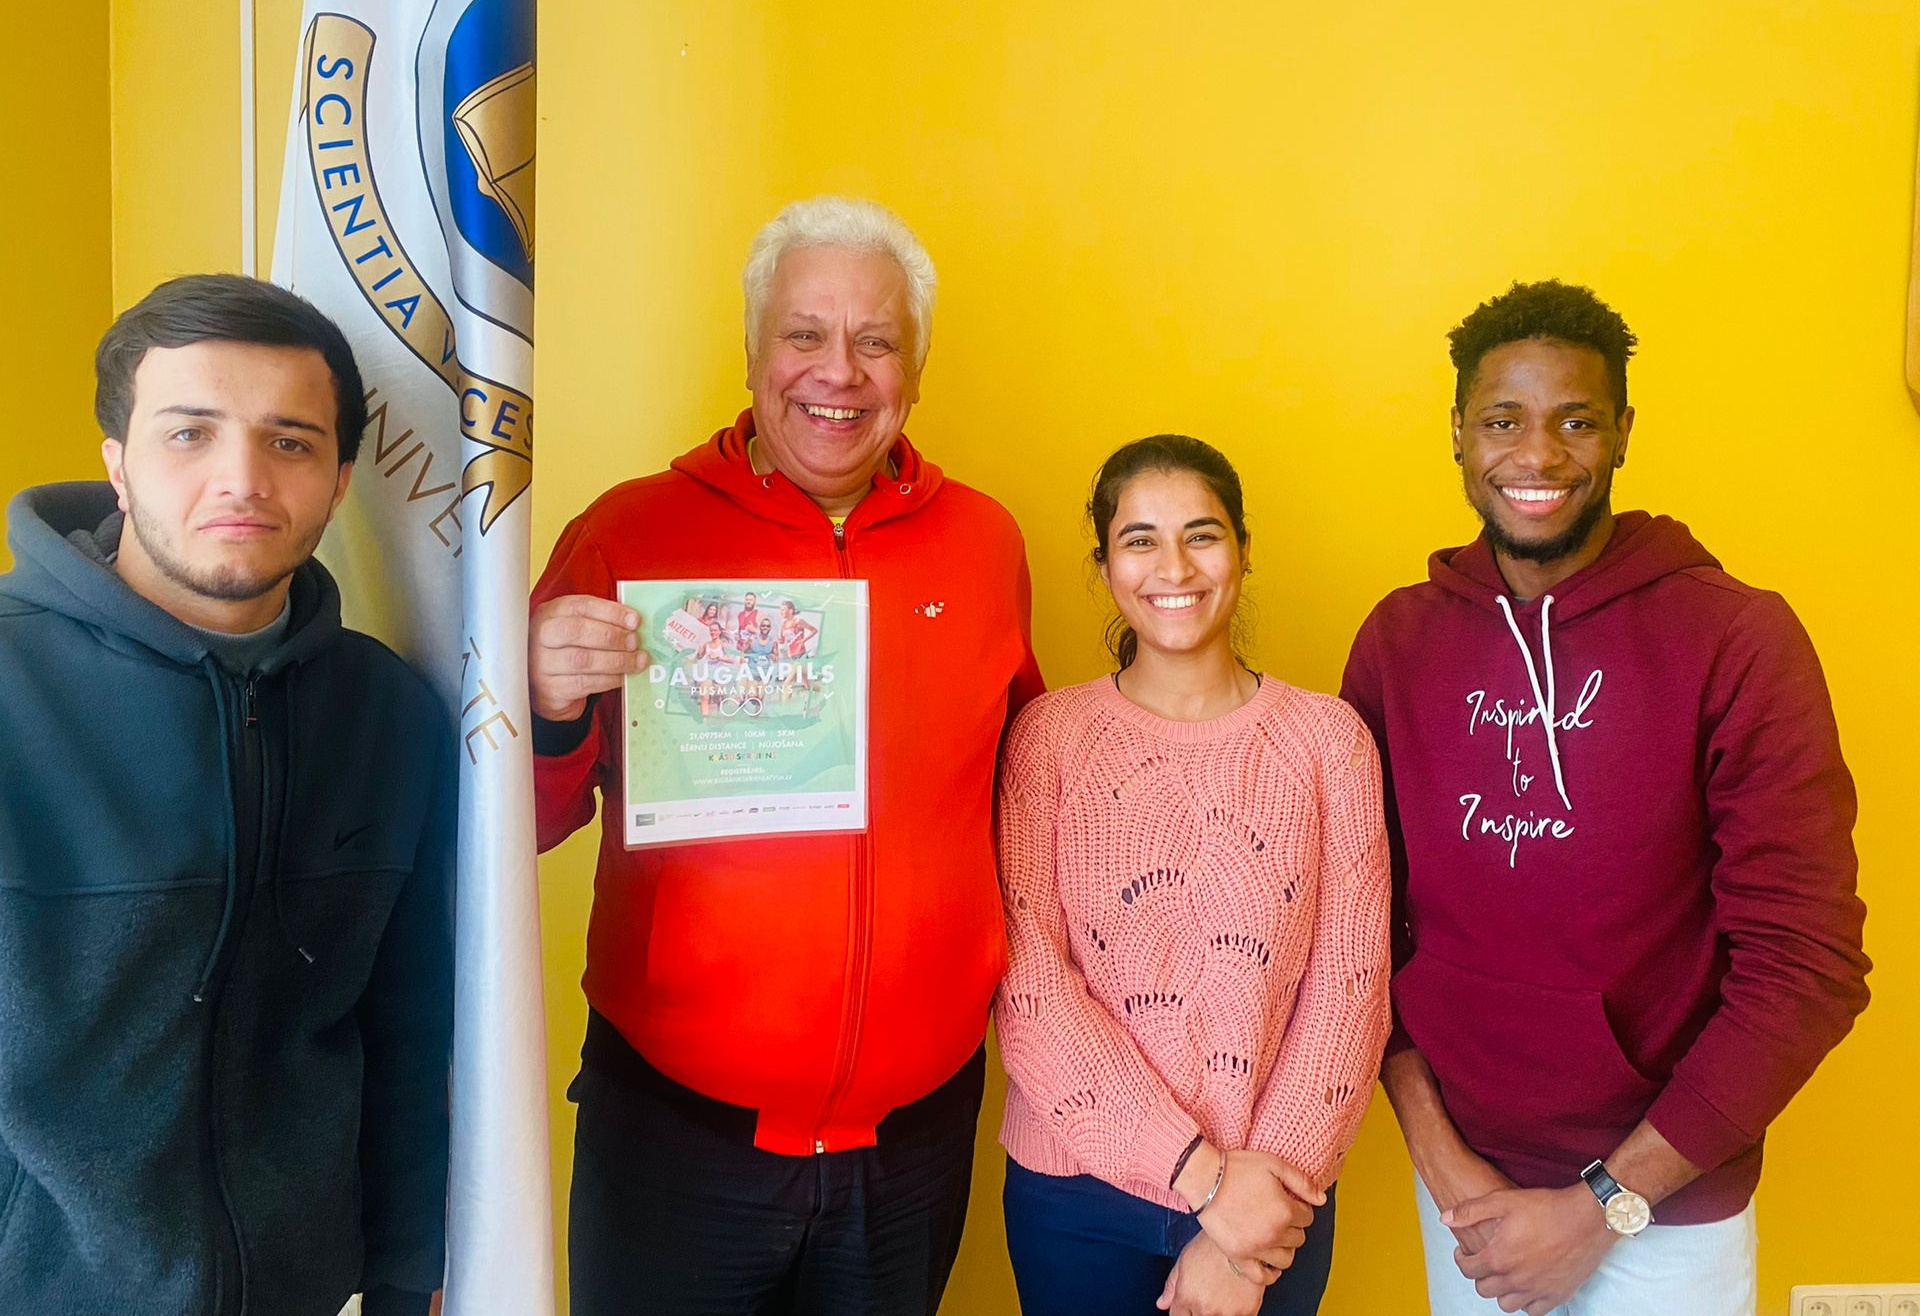
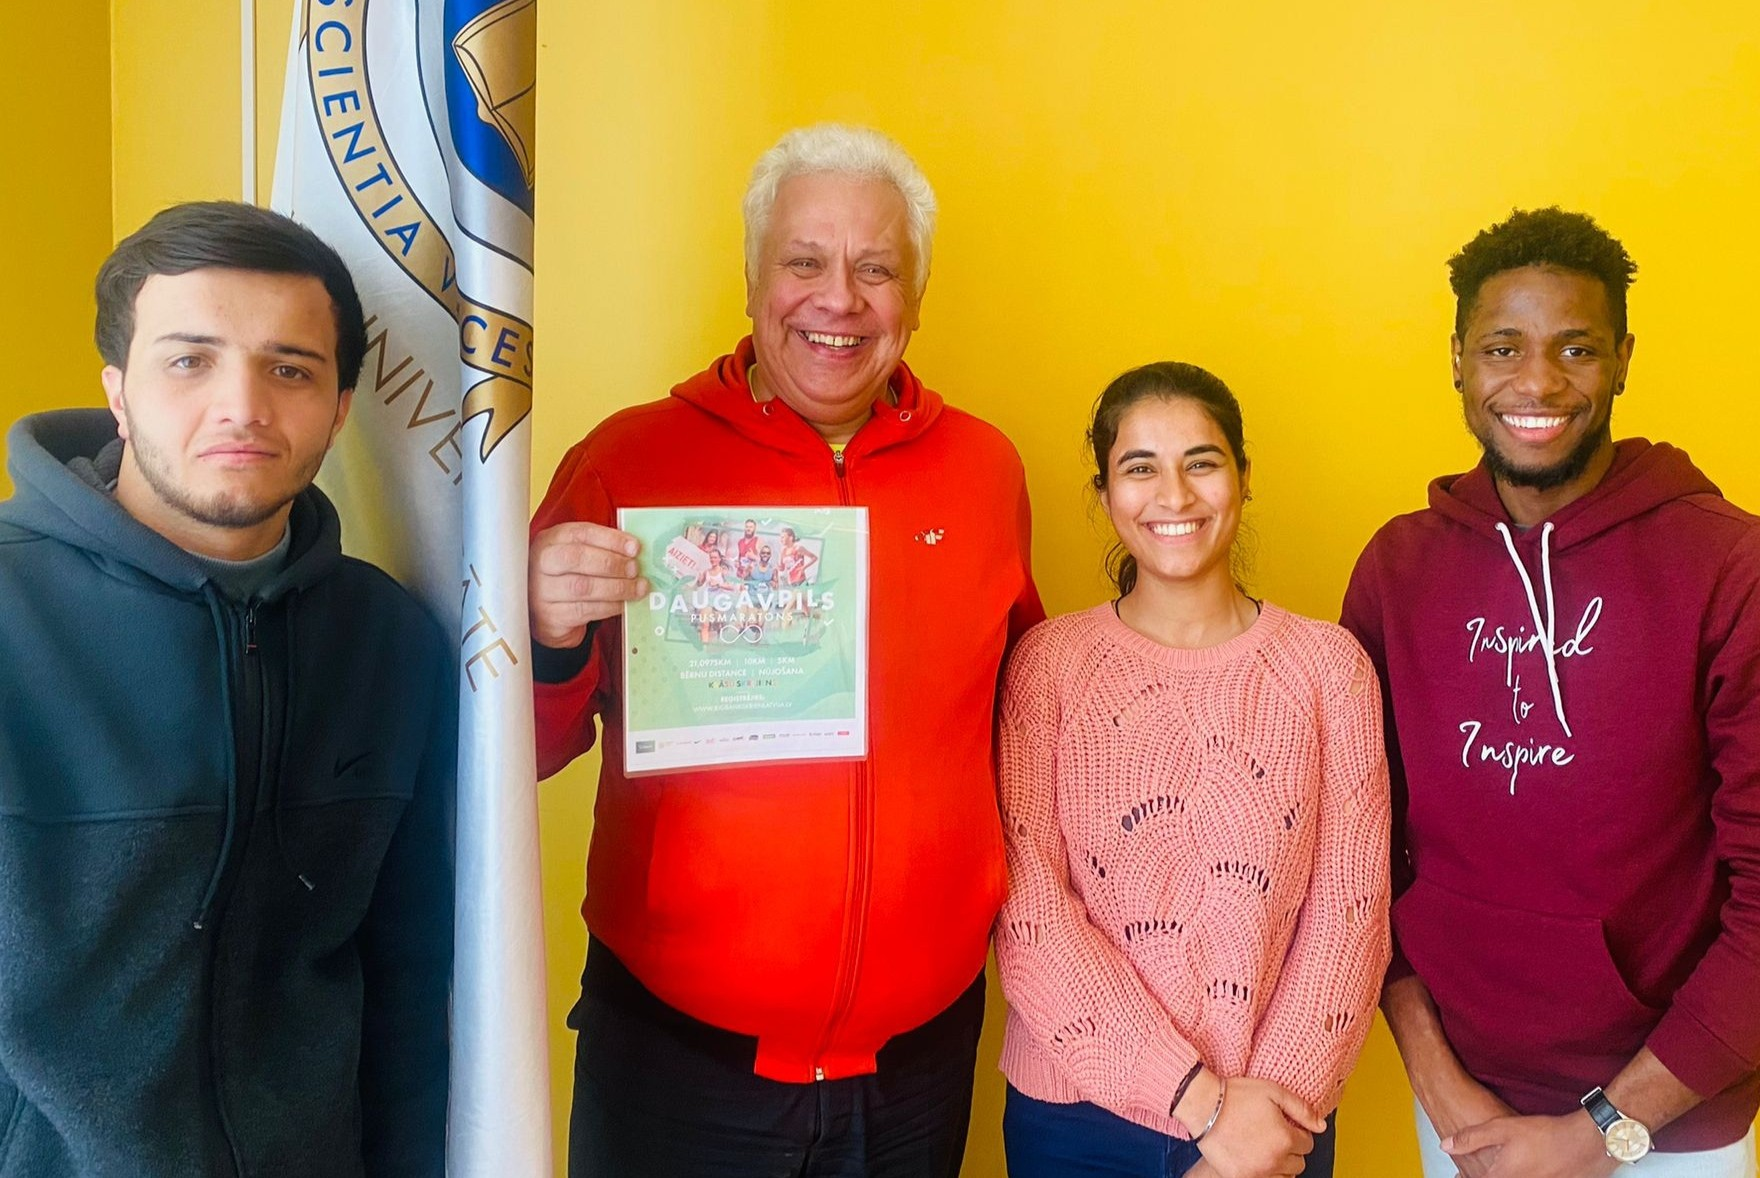
style: update testimonial card dark theme background and optimize hero assets

diff --git a/style.css b/style.css
@@ -4344,7 +4344,7 @@ html[data-theme="dark"] .testimonial-image-col {
    Dark Mode Overrides for Testimonial Cards & Carousel Controls
    -------------------------------------------------------------------------- */
 html[data-theme="dark"] .testimonial-card-col {
-  background: rgba(24, 39, 29, 0.96);
+  background: #223629;
   border-color: rgba(167, 201, 87, 0.25);
   box-shadow: 0 16px 38px rgba(0, 0, 0, 0.55), 0 0 20px rgba(167, 201, 87, 0.08);
 }

diff --git a/index.html b/index.html
@@ -21,7 +21,7 @@
   <script src="theme.js"></script>
 
   <!-- Core Stylesheet -->
-  <link rel="stylesheet" href="style.css?v=23">
+  <link rel="stylesheet" href="style.css?v=24">
 </head>
 
 <body class="home-page">
